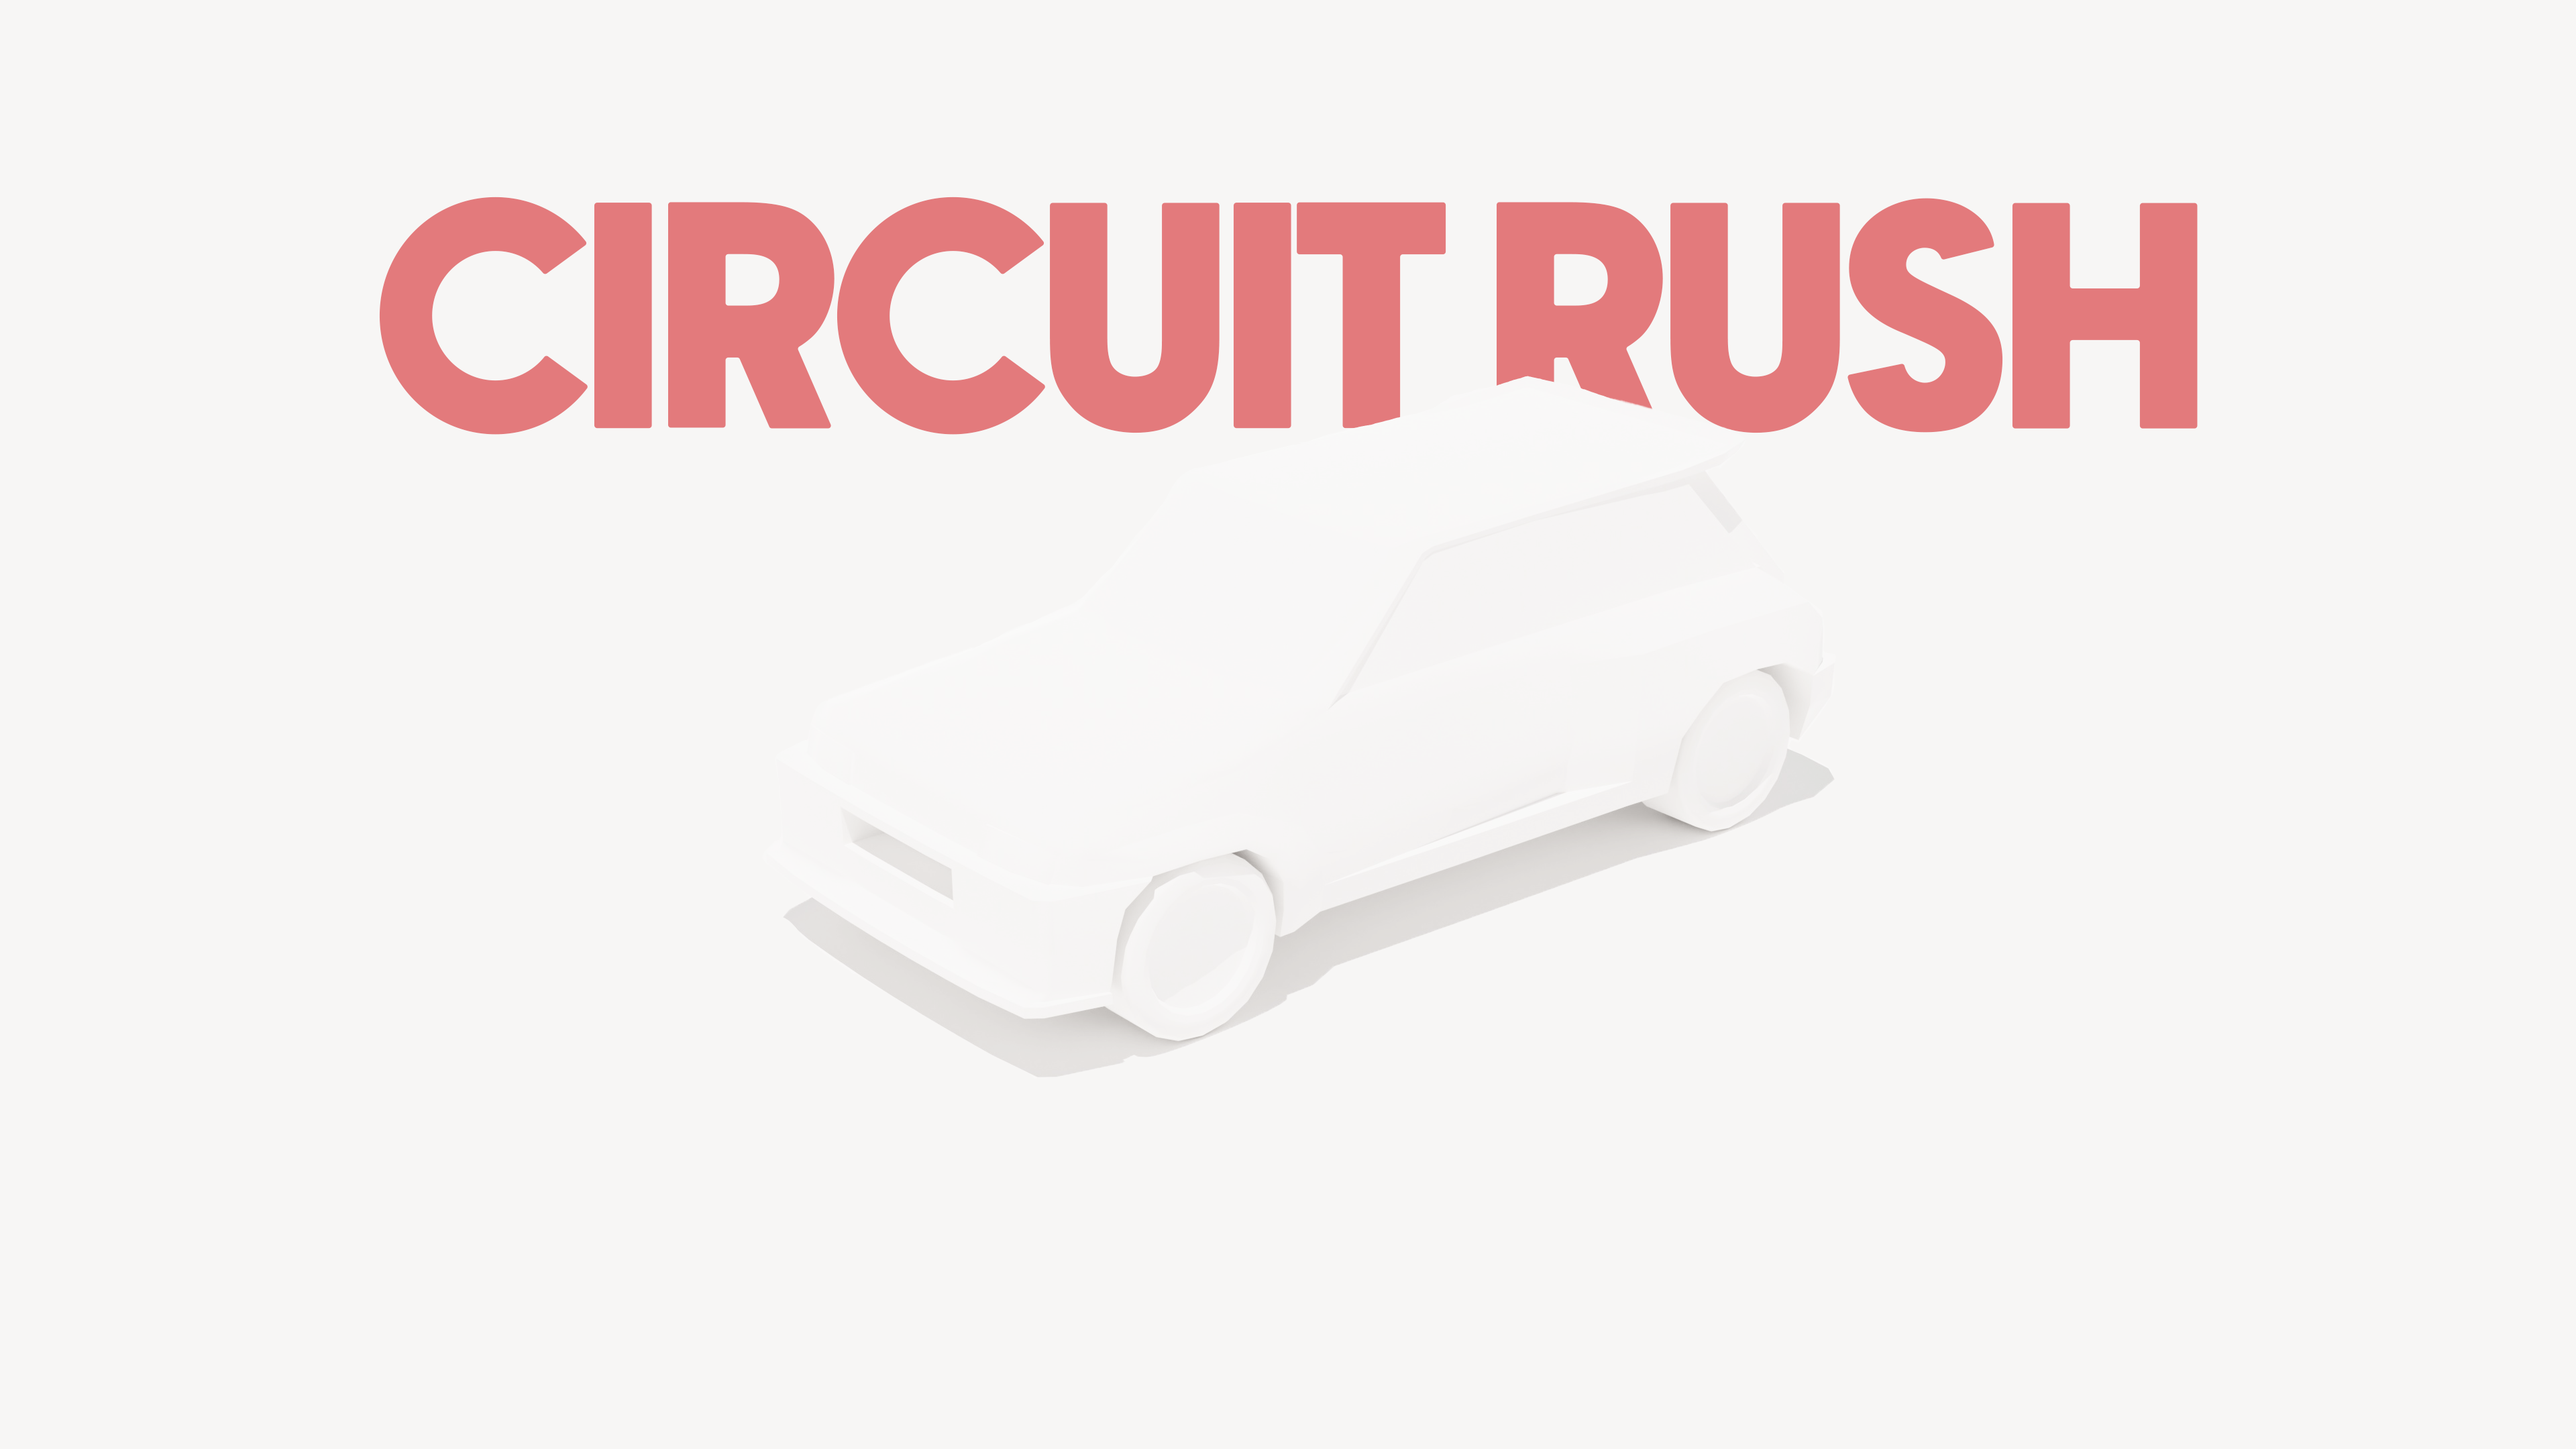
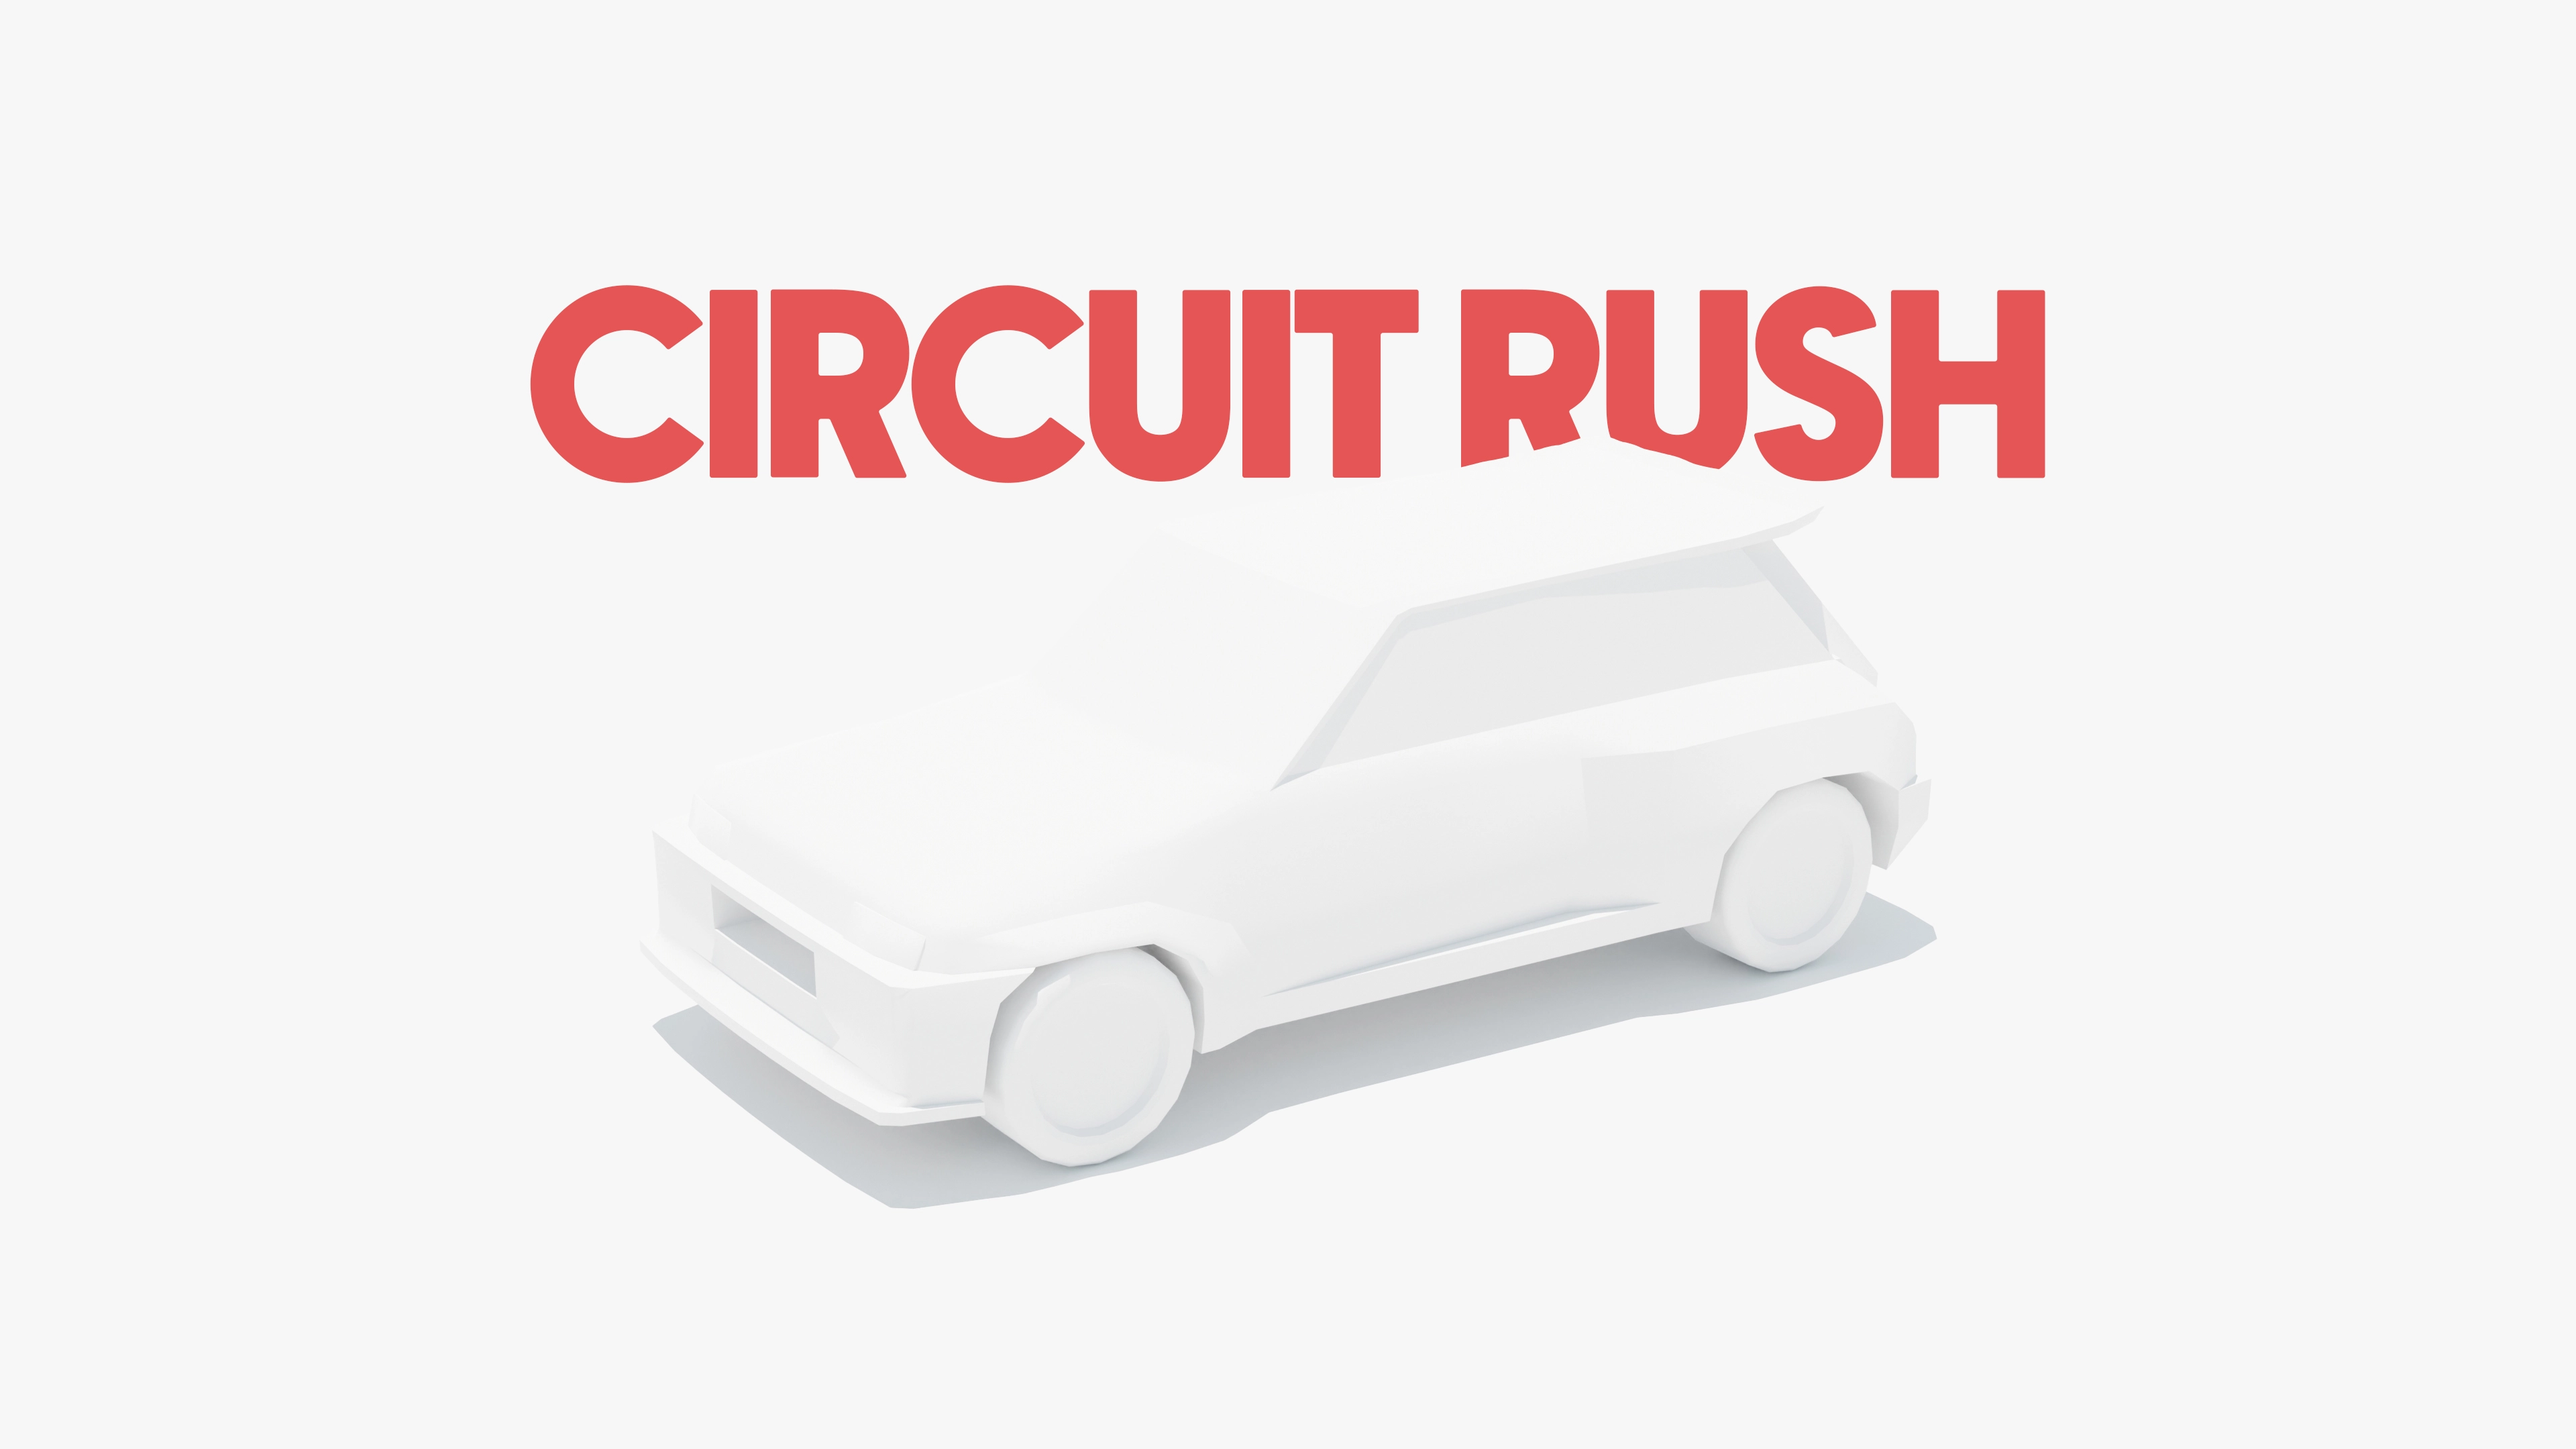
Visual changes

diff --git a/circuit-rush/src/style.css b/circuit-rush/src/style.css
@@ -49,7 +49,7 @@ html, body, #root {
 	opacity: 0;
 	font-family: 'Bebas Neue', cursive;
 	font-size: 3rem;
-	color: #E37B7C;
+	color: #e55556;
 }
 
 .start-info {
@@ -104,7 +104,7 @@ html, body, #root {
 .countdown-value {
 	font-family: 'Bebas Neue', cursive;
 	font-size: 10rem;
-	color: #E37B7C;
+	color: #e55556;
 }
 
 .vehicle-stats-overlay, .circuit-stats-overlay, .countdown-overlay, .pause-overlay, .finish-overlay, .reset-alert-overlay {
@@ -163,7 +163,7 @@ html, body, #root {
 }
 
 .worse-time {
-	color: #e37b7d;
+	color: #e55556;
 }
 
 .better-time {
@@ -185,14 +185,6 @@ html, body, #root {
 .vehicle-stats {
 	position: relative;
 	bottom: 2rem;
-	display: flex;
-	height: 4rem;
-	opacity: 0.8;
-	font-family: 'Bebas Neue', cursive;
-	border-radius: 0.25rem;
-	background-color: #ffffff80;
-	backdrop-filter: blur(1rem);
-	border: 0.125rem solid #00000010;
 }
 
 .vehicle-transmission, .vehicle-speed {
@@ -203,7 +195,7 @@ html, body, #root {
   justify-content: center;
 	align-items: center;
 	padding-top: 0.125rem;
-	color: #e37b7d;
+	color: #e55556;
   font-size: 2rem;
 }
 
@@ -215,7 +207,7 @@ html, body, #root {
 }
 
 .vehicle-speed-bar {
-	background-color: #e37b7d;
+	background-color: #e55556;
 	height: 100%;
 	transition: width 0.05s ease-in-out;
 	border-radius: 0.25rem;
@@ -224,15 +216,17 @@ html, body, #root {
 .circuit-stats {
 	position: relative;
 	top: 2rem;
-	display: flex;
 	justify-content: space-between;
 	width: 20rem;
 	padding: 0 1.5rem;
+}
+
+.vehicle-stats, .circuit-stats {
+	display: flex;
 	height: 4rem;
-	opacity: 0.8;
 	font-family: 'Bebas Neue', cursive;
 	border-radius: 0.25rem;
-	background-color: #ffffff80;
+	background-color: #ffffffcc;
 	backdrop-filter: blur(1rem);
 	border: 0.125rem solid #00000010;
 }
@@ -244,7 +238,7 @@ html, body, #root {
 	justify-content: center;
 	align-items: center;
 	padding-top: 0.125rem;
-	color: #e37b7d;
+	color: #e55556;
 	font-size: 2rem;
 }
 
@@ -255,7 +249,7 @@ html, body, #root {
 .reset-message {
 	font-family: 'Bebas Neue', cursive;
 	font-size: 3rem;
-	color: #e37b7d;
+	color: #e55556;
 }
 
 @media screen and (max-width: 1080px) {

diff --git a/circuit-rush/src/index.html b/circuit-rush/src/index.html
@@ -14,7 +14,7 @@
 	<meta property="og:title" content="Circuit Rush">
 	<meta property="og:description" content="Experience the minimalist and visually captivating world of Circuit Rush, a thrilling web-based racing game powered by three.js. Play it now!">
 	<meta property="og:image:type" content="image/png">
-	<meta property="og:image" content="../public/cover_og.png">
+	<meta property="og:image" content="../public/cover-og.png">
 	<meta property="og:image:width" content="1200">
 	<meta property="og:image:height" content="630">
 	<meta property="og:image:alt" content="Circuit Rush">
@@ -22,7 +22,7 @@
 	<meta name="twitter:title" content="Circuit Rush">
 	<meta name="twitter:description" content="Experience the minimalist and visually captivating world of Circuit Rush, a thrilling web-based racing game powered by three.js. Play it now!">
 	<meta name="twitter:card" content="summary_large_image">
-	<meta name="twitter:image:src" content="../public/cover_og.png">
+	<meta name="twitter:image:src" content="../public/cover-og.png">
 	<meta name="theme-color" content="#F7F6F5">
 	<style>
 		@font-face {
@@ -48,7 +48,7 @@
 		#loading-text {
 			opacity: 0;
 			font-size: 2rem;
-			color: #E37B7C;
+			color: #e55556;
 			animation: fadeAnimation 1s ease-in-out infinite 0.5s;
 		}
 		@keyframes fadeAnimation {

diff --git a/circuit-rush/src/Objects.jsx b/circuit-rush/src/Objects.jsx
@@ -12,9 +12,7 @@ import Arrow from './Arrow';
 const objectsMaterial = new MeshStandardMaterial({
   color: "#fff",
   roughness: 1,
-  metalness: 0,
-  emissive: "#fff",
-  emissiveIntensity: 0.1
+  metalness: -0.3
 });
 
 export default function Objects({ cubesData, cubesCount, perfomanceMode }) {
@@ -46,7 +44,7 @@ export default function Objects({ cubesData, cubesCount, perfomanceMode }) {
       return;
     }
     const cubeColor = cubeInstanceRefs.current[index].color;
-    animateColor(cubeColor, { r: 1, g: 0, b: 0 }, { r: 1, g: 1, b: 1 });
+    animateColor(cubeColor, { r: 1, g: 0.02, b: 0.05 }, { r: 1, g: 1, b: 1 });
   };
 
   const animateColor = (color, startColor, endColor) => {
@@ -61,6 +59,7 @@ export default function Objects({ cubesData, cubesCount, perfomanceMode }) {
           g: endColor.g,
           b: endColor.b,
           duration: 1,
+					delay: 10
         });
       },
     });

diff --git a/circuit-rush/src/index.jsx b/circuit-rush/src/index.jsx
@@ -208,13 +208,13 @@ function App() {
 		const countdown = async () => {
 			for (let count = 3; count >= 1; count--) {
 				countdownValue.current.textContent = count;
-				gsap.fromTo(countdownValue.current, { opacity: 0.8 }, { opacity: 0, duration: 0.6, delay: 0.4 });
+				gsap.fromTo(countdownValue.current, { opacity: 1 }, { opacity: 0, duration: 0.6, delay: 0.4 });
 				countdownSound.volume = 0.1;
 				countdownSound.play();
 				await delay(1000);
 			}
 			countdownValue.current.textContent = 'GO';
-			gsap.fromTo(countdownValue.current, { opacity: 0.8 }, { opacity: 0, duration: 0.6, delay: 0.4 });
+			gsap.fromTo(countdownValue.current, { opacity: 1 }, { opacity: 0, duration: 0.6, delay: 0.4 });
 			countdownStartSound.volume = 0.1;
 			countdownStartSound.play();
 			setTimeout(() => {

diff --git a/circuit-rush/src/Experience.jsx b/circuit-rush/src/Experience.jsx
@@ -90,8 +90,8 @@ export default function Experience({ perfomanceMode }) {
 				radius={perfMode > 0 ? 6 : 2}
 				blurSamples={perfMode > 0 ? 12 : 4}
 			/>
-			<pointLight position={[100, 100, 100]} intensity={0.2} color={'#3865fc'} />
-			<pointLight position={[-100, 100, -100]} intensity={0.2} color={'#ff6f00'} />
+			{/* <pointLight position={[100, 100, 100]} intensity={1} color={'#fff'} />
+			<pointLight position={[-100, 100, -100]} intensity={1} color={'#fff'} /> */}
 			<OrbitControls target={[0, 0, 0]} camera={cameraRef.current} enableRotate={false} enableZoom={false} />
 			<ambientLight intensity={1} color={'#fff'} />
 			<Environment files={'static/adamsbridge.hdr'} />
